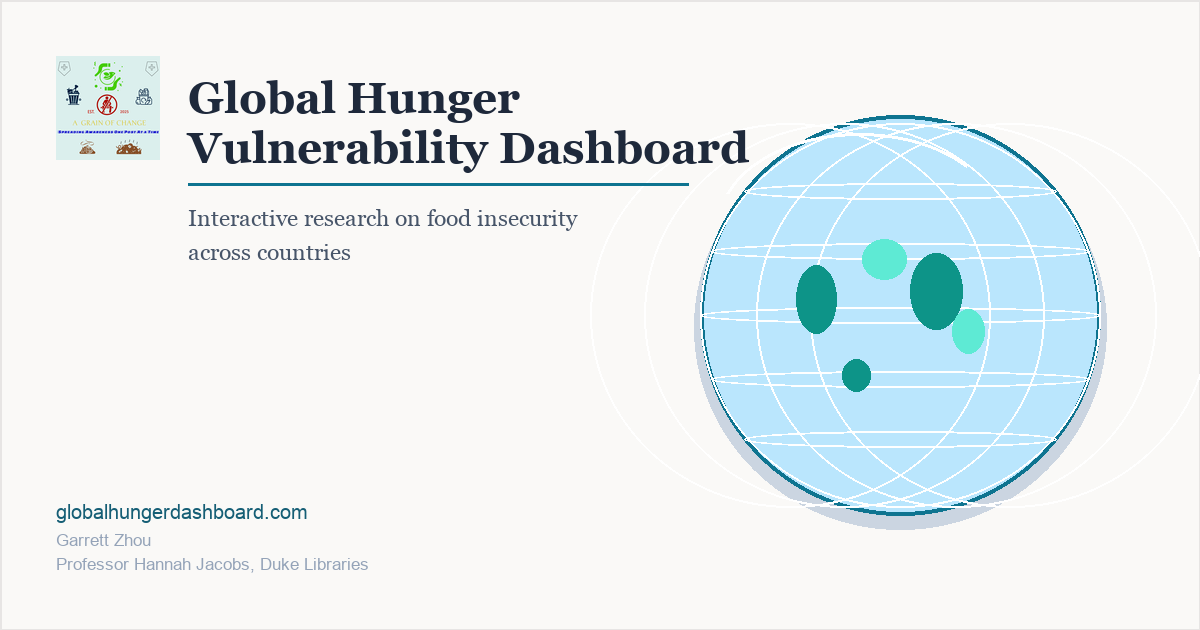
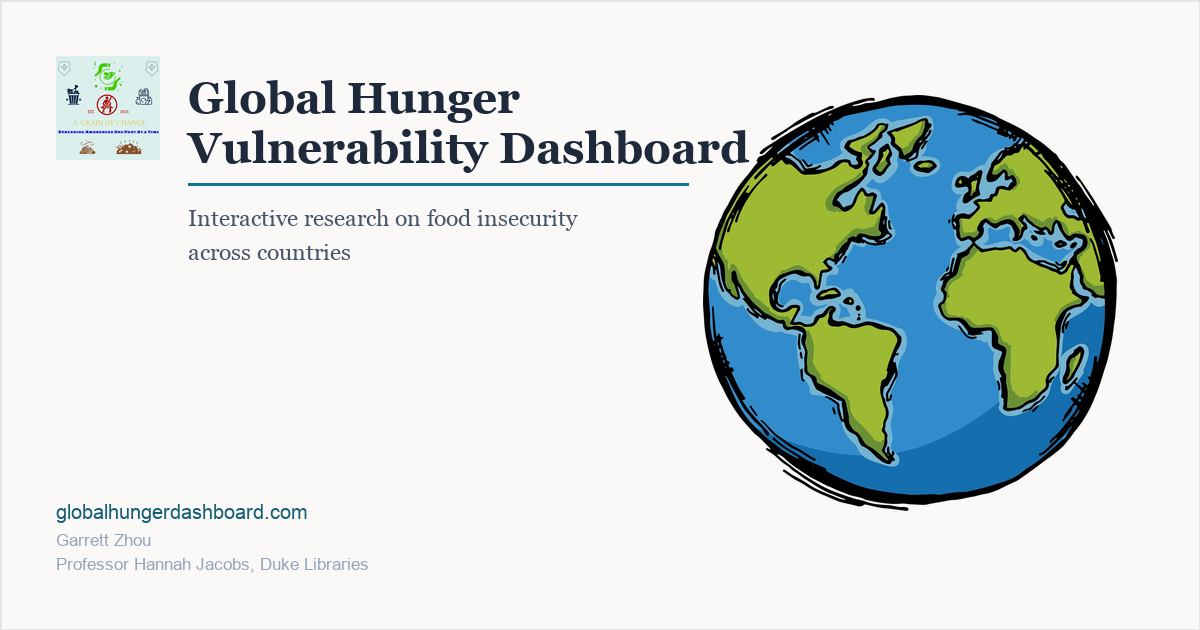
Use hand-drawn world.png for OG preview globe graphic.
Replace the programmatic globe with the world asset from logo pics.

Changed region(s): [[0.555, 0.1508, 0.9558, 0.8444]]

diff --git a/www/landing.html b/www/landing.html
@@ -12,7 +12,7 @@
   <meta property="og:url" content="https://globalhungerdashboard.com/assets/landing.html">
   <meta property="og:title" content="Global Hunger Vulnerability Dashboard">
   <meta property="og:description" content="Interactive global hunger vulnerability map with country profiles, undernourishment data, and climate risk indicators.">
-  <meta property="og:image" content="https://globalhungerdashboard.com/assets/og-social-preview.png?v=3">
+  <meta property="og:image" content="https://globalhungerdashboard.com/assets/og-social-preview.png?v=4">
   <meta property="og:image:width" content="1200">
   <meta property="og:image:height" content="630">
   <meta property="og:image:alt" content="Global Hunger Vulnerability Dashboard — interactive food security map and country profiles">
@@ -21,7 +21,7 @@
   <meta name="twitter:card" content="summary_large_image">
   <meta name="twitter:title" content="Global Hunger Vulnerability Dashboard">
   <meta name="twitter:description" content="Interactive global hunger vulnerability map with country profiles and food security indicators.">
-  <meta name="twitter:image" content="https://globalhungerdashboard.com/assets/og-social-preview.png?v=3">
+  <meta name="twitter:image" content="https://globalhungerdashboard.com/assets/og-social-preview.png?v=4">
 
   <script type="application/ld+json">
   {

diff --git a/scripts/generate_og_preview.py b/scripts/generate_og_preview.py
@@ -9,6 +9,7 @@ W, H = 1200, 630
 ROOT = Path(__file__).resolve().parents[1]
 OUT = ROOT / "www" / "og-social-preview.png"
 BLOG_LOGO = ROOT / "www" / "blog-logo.png"
+WORLD_GLOBE = ROOT / "www" / "world.png"
 
 # Dashboard + research palette
 INK = "#1e293b"
@@ -17,10 +18,6 @@ ACCENT = "#0e7490"
 ACCENT_DARK = "#155e75"
 PAPER = "#faf9f7"
 PAPER_EDGE = "#e7e5e4"
-OCEAN = "#bae6fd"
-OCEAN_DEEP = "#7dd3fc"
-LAND = "#0d9488"
-LAND_LIGHT = "#5eead4"
 
 
 def load_font(size, style="regular"):
@@ -49,53 +46,27 @@ def load_font(size, style="regular"):
     return ImageFont.load_default()
 
 
-def paste_blog_logo(img, x, y, height=104):
-    if not BLOG_LOGO.exists():
-        return 0
-    logo = Image.open(BLOG_LOGO).convert("RGBA")
-    ratio = height / logo.height
-    width = int(logo.width * ratio)
-    logo = logo.resize((width, height), Image.Resampling.LANCZOS)
-    img.paste(logo, (x, y), logo)
-    return width
+def paste_rgba_image(img, path, x, y, height):
+    if not path.exists():
+        return 0, 0
+    asset = Image.open(path).convert("RGBA")
+    ratio = height / asset.height
+    width = int(asset.width * ratio)
+    asset = asset.resize((width, height), Image.Resampling.LANCZOS)
+    img.paste(asset, (x, y), asset)
+    return width, height
 
 
-def draw_globe(draw, cx, cy, radius):
-    """Stylized world globe for the right side."""
-    left, top, right, bottom = cx - radius, cy - radius, cx + radius, cy + radius
-
-    draw.ellipse((left - 6, top + 10, right + 6, bottom + 14), fill="#cbd5e1")
-    draw.ellipse((left, top, right, bottom), fill=OCEAN, outline=ACCENT, width=4)
-
-    # Latitude lines
-    for frac in (-0.62, -0.32, 0.0, 0.32, 0.62):
-        y = cy + int(radius * frac)
-        half = int((radius**2 - (y - cy) ** 2) ** 0.5) if abs(y - cy) <= radius else 0
-        if half > 0:
-            draw.arc((cx - half, y - 8, cx + half, y + 8), 0, 360, fill="#ffffff", width=2)
-
-    # Longitude curves
-    for offset in (-0.55, -0.28, 0.0, 0.28, 0.55):
-        ox = int(radius * offset)
-        draw.ellipse((cx - radius + ox, top + 8, cx + radius + ox, bottom - 8), outline="#ffffff", width=2)
-
-    # Simplified continents (abstract shapes)
-    continents = [
-        [(-0.42, -0.08, 0.20, 0.34), LAND],
-        [(-0.08, -0.28, 0.22, 0.20), LAND_LIGHT],
-        [(0.18, -0.12, 0.26, 0.38), LAND],
-        [(0.34, 0.08, 0.16, 0.22), LAND_LIGHT],
-        [(-0.22, 0.30, 0.14, 0.16), LAND],
-    ]
-    for (fx, fy, fw, fh), color in continents:
-        w = int(radius * fw)
-        h = int(radius * fh)
-        px = cx + int(radius * fx) - w // 2
-        py = cy + int(radius * fy) - h // 2
-        draw.ellipse((px, py, px + w, py + h), fill=color)
-
-    # Highlight
-    draw.arc((left + 18, top + 18, cx + radius // 2, cy), 200, 320, fill="#ffffff", width=3)
+def paste_world_globe(img, cx, cy, height=430):
+    if not WORLD_GLOBE.exists():
+        return
+    globe = Image.open(WORLD_GLOBE).convert("RGBA")
+    ratio = height / globe.height
+    width = int(globe.width * ratio)
+    globe = globe.resize((width, height), Image.Resampling.LANCZOS)
+    x = cx - width // 2
+    y = cy - height // 2
+    img.paste(globe, (x, y), globe)
 
 
 def main():
@@ -105,10 +76,10 @@ def main():
     draw.rectangle((0, 0, W, H), outline=PAPER_EDGE, width=2)
 
     logo_x, logo_y = 56, 56
-    logo_w = paste_blog_logo(img, logo_x, logo_y, height=104)
-    draw = ImageDraw.Draw(img)
+    logo_w, _ = paste_rgba_image(img, BLOG_LOGO, logo_x, logo_y, height=104)
 
-    draw_globe(draw, cx=900, cy=315, radius=200)
+    paste_world_globe(img, cx=910, cy=310, height=430)
+    draw = ImageDraw.Draw(img)
 
     title_x = logo_x + max(logo_w, 104) + 28
     title_y = 72
@@ -134,18 +105,8 @@ def main():
         fill=MUTED,
     )
 
-    draw.text(
-        (56, 500),
-        "globalhungerdashboard.com",
-        font=url_font,
-        fill=ACCENT_DARK,
-    )
-    draw.text(
-        (56, 530),
-        "Garrett Zhou",
-        font=credit_font,
-        fill="#94a3b8",
-    )
+    draw.text((56, 500), "globalhungerdashboard.com", font=url_font, fill=ACCENT_DARK)
+    draw.text((56, 530), "Garrett Zhou", font=credit_font, fill="#94a3b8")
     draw.text(
         (56, 554),
         "Professor Hannah Jacobs, Duke Libraries",
